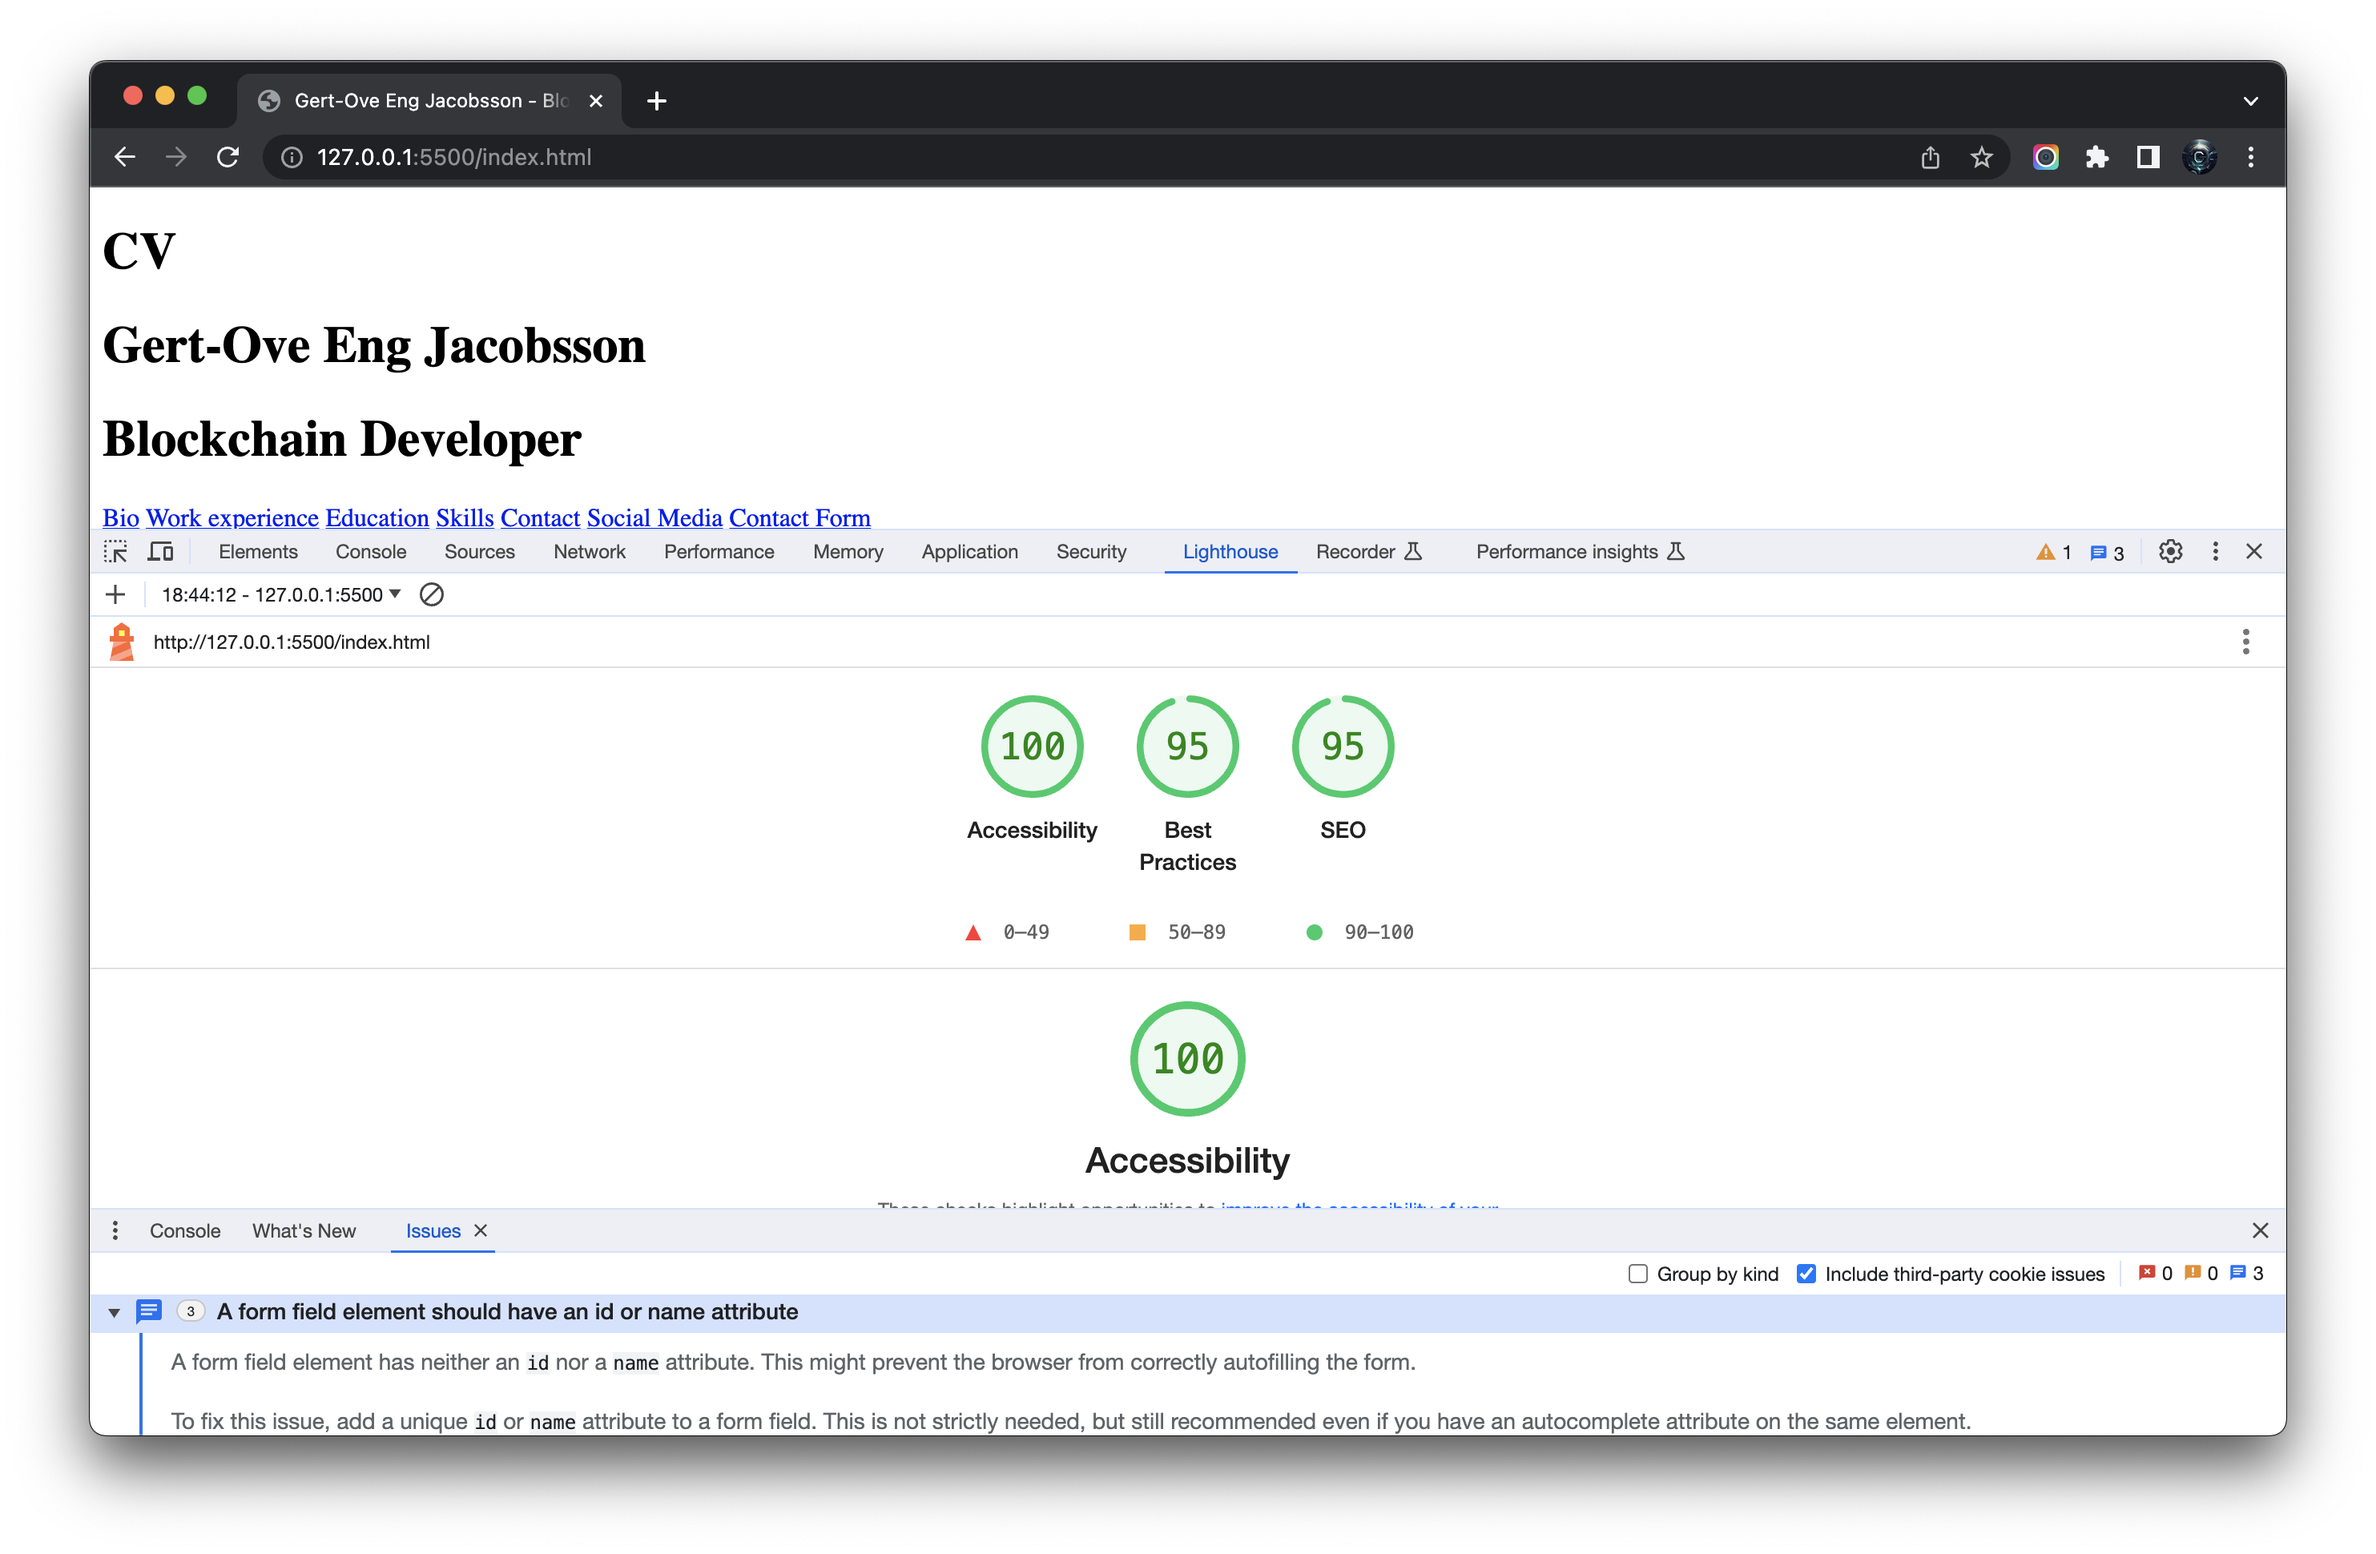
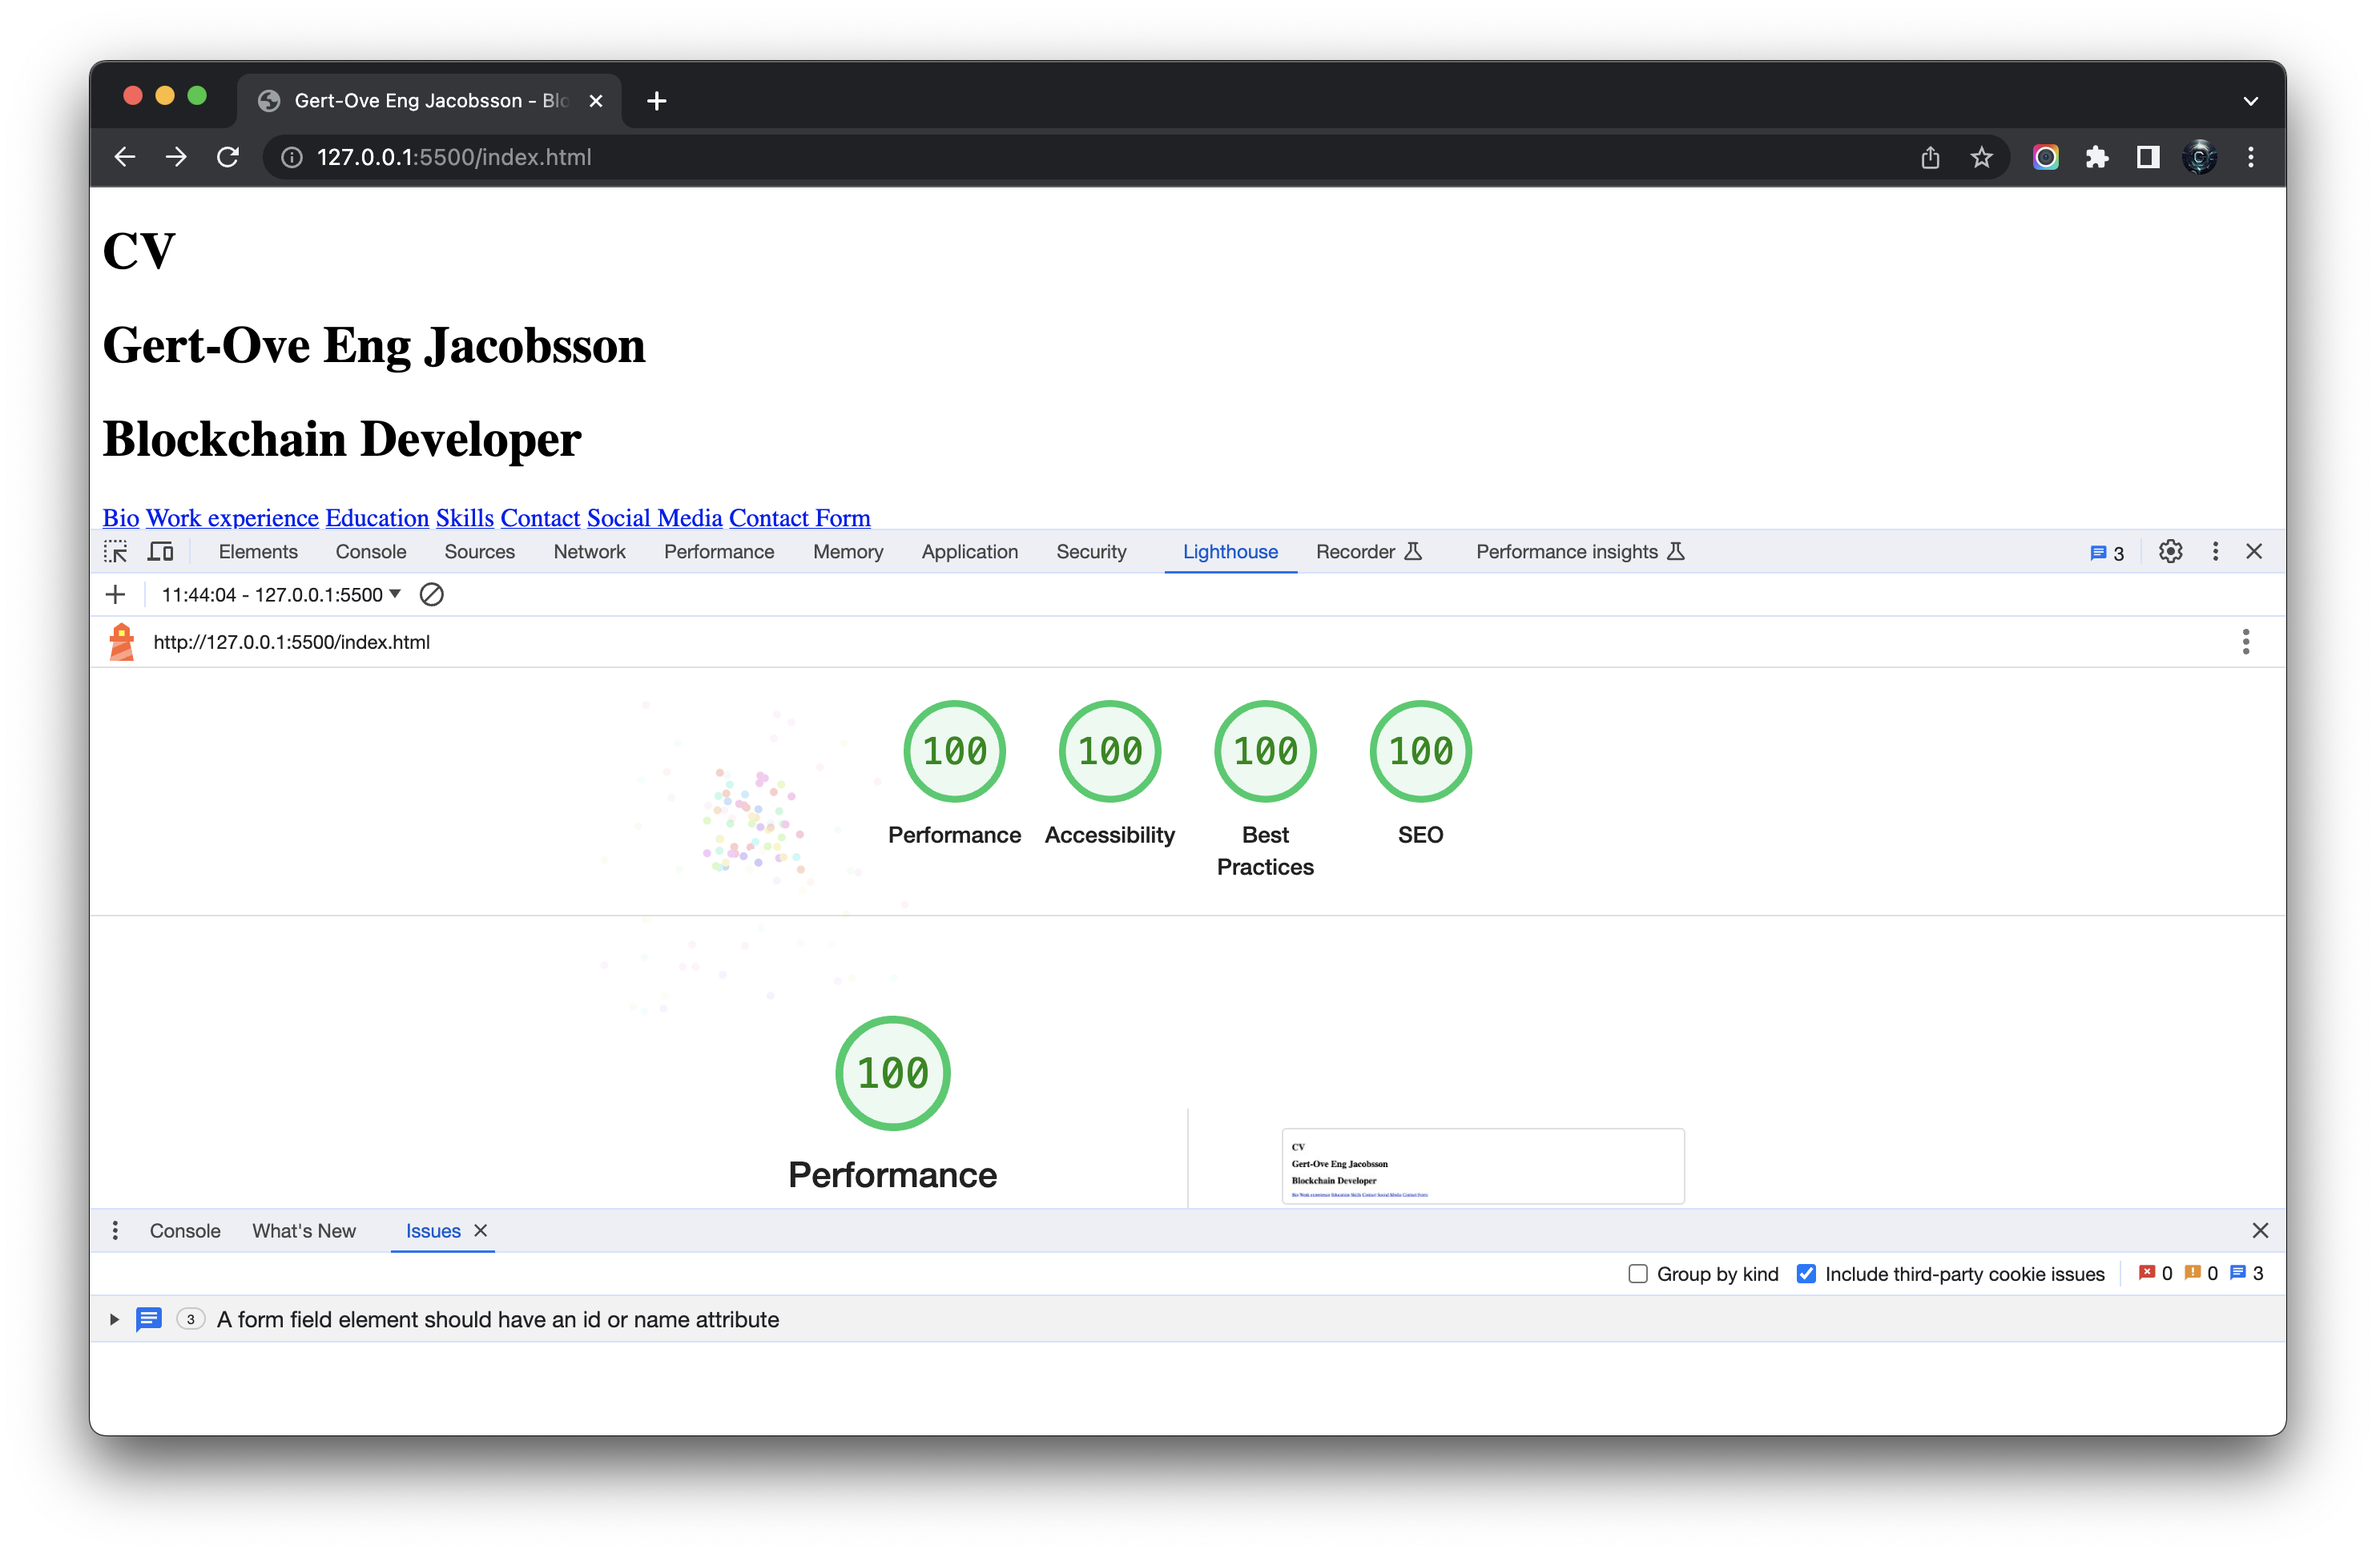
raderat kommentarer & ändrat chrome a11y jpg

diff --git a/index.html b/index.html
@@ -4,19 +4,17 @@
     <title>Gert-Ove Eng Jacobsson - Blockchain Developer</title>
 
     <meta charset="UTF-8">
-    <meta name="viewport" content="width=>, initial-scale=1.0">
+    <meta name="viewport" content="width=device-width, initial-scale=1.0">
     <meta name="description" content="Click to experience Gert-Ove Eng Jacobssons CV/Resume as a Blockchain Developer">
     <meta name="title" content="Gert-Ove Eng Jacobsson CV/Resume - Blockchain Developer">
     <meta name="robots" content="all">
 
-    <!-- OpenGraph info -->
     <meta property="og:title" content="Gert-Ove Eng Jacobsson - Blockchain Developer">
     <meta property="og:type" content="website">
     <meta property="og:url" content="https://www.linkedin.com/in/gert-ove-eng-jacobsson-92690b1b4">
     <meta property="og:image" content="https://i.postimg.cc/JhQ4VD5r/Gert-Ove-Eng-Jacobsson.jpg">
     <meta property="og:description" content="Gert-Ove Eng Jacobsson CV/Resume as a Blockchain Developer">
 
-    <!-- Structured Data - Person -->
     <script type="application/ld+json">
         {
             "@context": "https://schema.org/",
